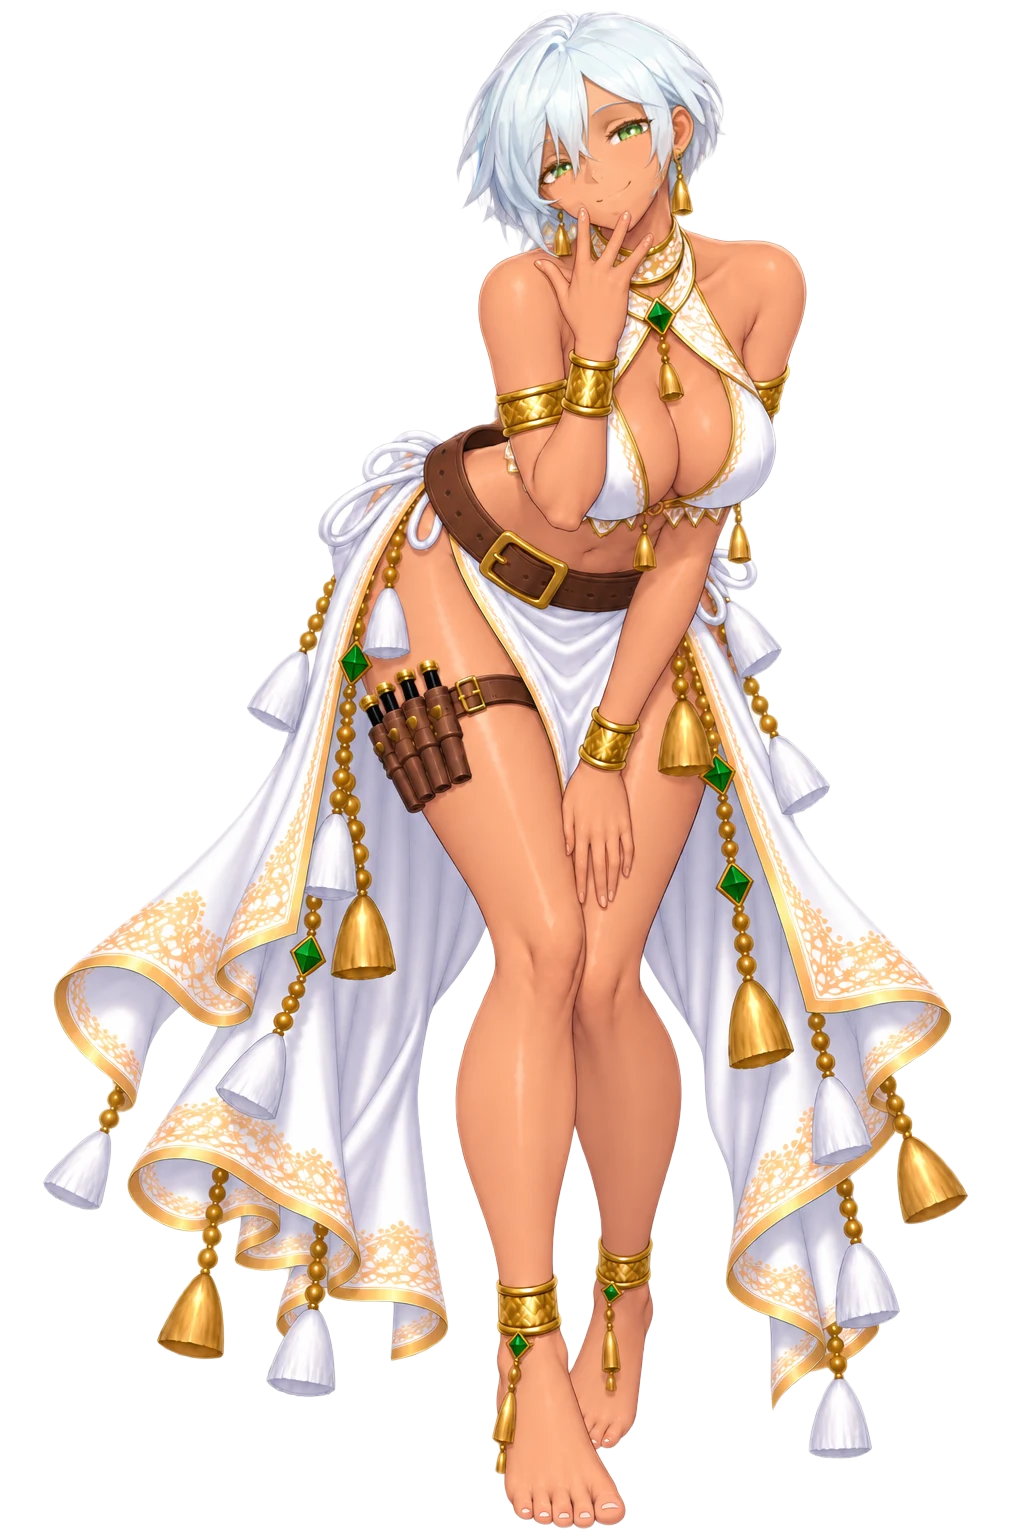
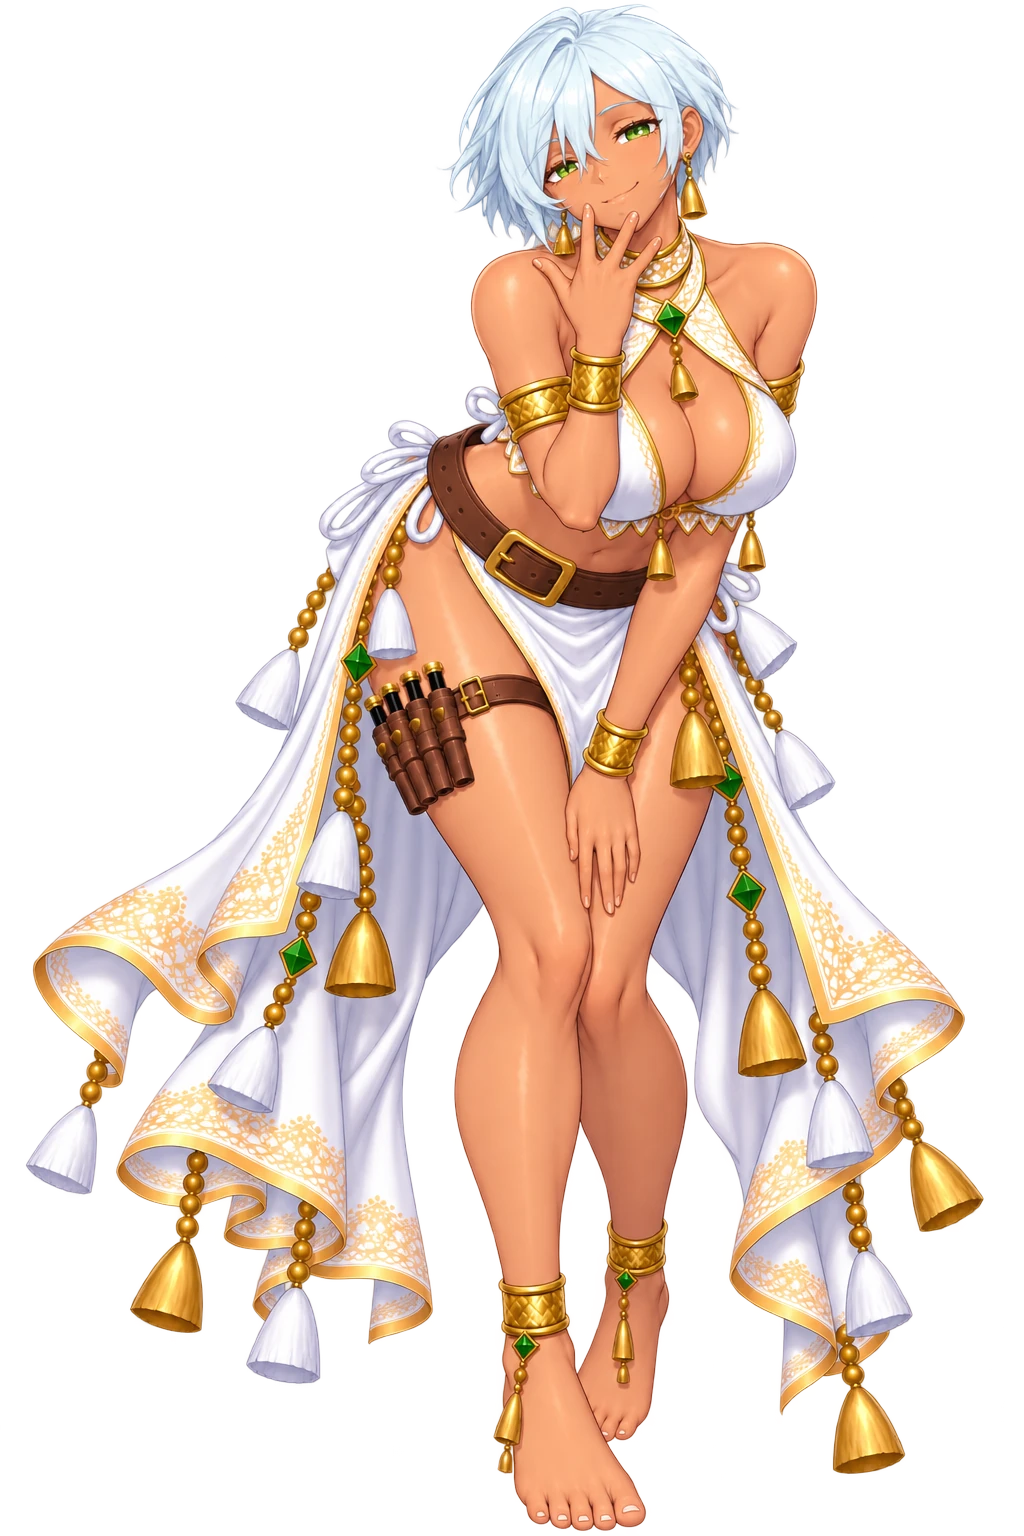
art(索拉娜): smirk 過了 —— 58/62；Ray 的措辭破了重災區
> Ray：「加上提詞穿著民族獸獵服裝的女戰士　不要寫表情　表情嚴格鎖原圖」

三行之後只接「穿著民族獸獵服裝的女戰士」，一個表情字都不寫。
smirk 在那之前連擋五次（自信／挑釁等三種情緒方向詞都試過），這樣一次就過。

⇒ 規律：描述「她穿什麼」會降風險，描述「她在做什麼表情」會升風險 ——
  表情本來就由「照第二張」鎖住，再寫一次只是多給分類器一個把柄。
⚠ laugh 反而最硬（原本估機會最大）：同一輪兩個新 session 都擋，
  其中一次對話標題直接被歸成「人體藝術」。機率不能用直覺估。

四項驗收過（色相 199.0／角α 0／近白 0.00%／與 A 差 33.9），臉部 100% 裁切看過。
還差 4 張：laugh(5次) amaze(4次) tease(5次) 被擋；panic 是 alpha 出不來（另一種病）。

⚠ 程式端要接：speakers.js 共 14 條路徑跳 ?v=（12 張加 v=2、side/smile 改 v=3）。

Changed region(s): [[0.0312, 0.0, 0.9688, 1.0], [0.4375, 0.1875, 0.4688, 0.2188]]

diff --git a/resources/si/_sorana_r3_worklist.md b/resources/si/_sorana_r3_worklist.md
@@ -7,7 +7,7 @@
 
 同名覆蓋，不跳就是玩家繼續吃舊的那一份，**而且畫面上不會有任何錯誤訊息**（§5 的 -650）。
 
-| 要加 `?v=2`（現在沒有版號，11 張） | `battlecry` `shy` `sorry` `surprise` `talk` `think` `tire` `upset` `watch` **`whisper`** **`remind`** |
+| 要加 `?v=2`（現在沒有版號，12 張） | `battlecry` `shy` `sorry` `surprise` `talk` `think` `tire` `upset` `watch` `whisper` `remind` **`smirk`** |
 |---|---|
 | **要改成 `?v=3`（現在是 `?v=2`，2 張）** | `side` `smile` |
 
@@ -39,35 +39,44 @@
 眼睛形狀、金飾與鈴鐺全部對得上基底 A，沒有 -1556 那種吊眼／大圓眼的變形。
 透明像素佔 53~66%，是真 alpha 不是不透明底。
 
-## 四、⚠ 還沒做完的 5 張 —— **四張被擋死、一張 alpha 出不來**
+## 四、⚠ 還沒做完的 4 張
 
-> Ray（2026-09-22）：「**換提詞被擋就換下一張換 session 跑**」——
-> 以下每一張都走完了憲法 §5 那三段（原串重送 → 換串＋換一個短方向詞 → 再換串），
-> **不是沒試，是試到該停了**。
+### ⭐ Ray 給的措辭破了「重災區」：**加服裝、不寫表情**（2026-09-22）
 
-| 鍵 | 今天試了幾次 | 用過的短方向詞 | 結果 |
-|---|---|---|---|
-| `smirk` | **4** | 自信的女戰士／挑釁的女戰士 | 每一次都是內容判定 |
-| `tease` | **4** | 爽朗的女戰士／頑皮的女戰士 | 同上 |
-| `amaze` | **3** | 驚訝的女戰士／震驚的女戰士 | 同上 |
-| `laugh` | **3** | 開朗的女戰士／開懷大笑的女戰士 | 同上 |
-| `panic` | **3** | —（沒有被擋） | **圖每次都出得來，但角落 alpha 246~252 ＝ 它自己畫了背景** |
+> Ray：「laugh 的機會大點，smirk 跟 tease 是重災區，很難跑出來。
+>   **加上提詞穿著民族獸獵服裝的女戰士　不要寫表情　表情嚴格鎖原圖**　開新 session 再跑一輪」
 
-⚠⚠ **`panic` 與另外四張是兩種病，不要混為一談**：
-· 那四張是**內容判定**（連圖都沒有）
-· `panic` 是**它不給透明背景** —— 加了「背景完全透明，四個角落必須是透明的」
-  與「輸出透明背景的 PNG，角色以外全部透明」兩種寫法都一樣。
-  ⇒ 這一張**不要再硬盧提示詞**：它已經是 §憲法 -1516 那條「本機 alpha」的適用對象
-  （`tools/si_matting.py` ＋ `matting_eval.py` 的四項門檻）。⚠ 那條路需要
-  `.venv-matting`（ToonOut／BiRefNet），**這台機器還沒建**（建法在憲法 §5）。
+三行之後只接這一句、**一個表情字都不寫**：
 
-**⇒ 索拉娜 62 張的總進度：44 ＋ 13 ＝ 57 張已重製，還差 5 張。**
+```
+穿著民族獸獵服裝的女戰士
+```
 
-⚠⚠⚠ **這五張要不要繼續，是 Ray 的決定，不是美術的** —— 憲法 §5 的第三段
-（「換掉那一張」）原本是給**補齊情緒範圍**用的；但這五張**已經接進腳本**，
-換一個姿勢等於改掉那幾拍的演出。三條路：
-1. **留著舊圖**（畫面不會壞，只是那五張還是舊的臉模）
-2. **換一個姿勢重畫**（腳本那幾拍的演出會變，取景要重量）
+· **`smirk` 這樣就過了** —— 而它在那之前**連擋五次**（三種情緒方向詞都試過）。
+· ⚠⚠ 所以規律是：**描述「她穿什麼」會降風險，描述「她在做什麼表情」會升風險。**
+  情緒方向詞（自信／挑釁／頑皮…）是 -1503 那條的寫法，**對索拉娜這套服裝行不通**
+  —— 表情本來就由「照第二張」鎖住了，再寫一次只是多給分類器一個把柄。
+· ⚠ **`laugh` 反而是最硬的那一張**（Ray 原本估機會最大）：同一輪換了兩個新 session
+  都擋，其中一次的對話標題直接被歸成「人體藝術」。**機率不能用直覺估。**
+
+| 鍵 | 累計試了幾次 | 最後一次的結果 |
+|---|---|---|
+| `laugh` | **5** | 擋（新措辭 ×2、新 session ×2 都擋） |
+| `amaze` | **4** | 擋（新措辭 ×1） |
+| `tease` | **5** | 擋（新措辭 ×1） |
+| `panic` | **3** | **沒有被擋**，但角落 alpha 246~252 ＝ 它自己畫了背景 |
+
+⚠⚠ **`panic` 與另外三張是兩種病**：那三張是**內容判定**（連圖都沒有）；
+`panic` 是**不給透明背景**（兩種「要透明」的寫法都無效）。
+⇒ `panic` 該走憲法 -1516 的**本機 alpha**（`tools/si_matting.py` ＋ `matting_eval.py`
+的四項門檻），**這台機器還沒建 `.venv-matting`**（建法在憲法 §5）。
+
+**⇒ 索拉娜 62 張的總進度：44 ＋ 14 ＝ 58 張已重製，還差 4 張。**
+
+⚠⚠⚠ **這四張要不要繼續是 Ray 的決定**：它們**已經接進腳本**，
+「換掉那一張」等於改掉那幾拍的演出。三條路：
+1. **留著舊圖**（畫面不會壞，只是那幾張還是舊臉模）
+2. **換一個姿勢重畫**（演出會變，取景要重量）
 3. **`panic` 單獨走本機 alpha**（先建 `.venv-matting`）
 
 ## 五、⚠ 這一輪踩到的坑（下一個人先看這裡）
@@ -75,11 +84,13 @@
 1. **`_sorana_check.py` 的 `BASE` 指到 `resources/_originals/SI_sorana_base/soranagpt_1.png`，
    而 `_originals` 沒進版控** —— 換一台機器就跑不動。
    ⇒ 版控裡的那一份在 **`resources/si/soranagpt/`**（四張 UUID 檔名的 PNG，就是
-   `soranagpt_1~4`，依檔名時間排序）。這一輪是把它們複製回 `_originals/SI_sorana_base/`
-   才跑得起來。**下一台機器照做一次就好。**
+   `soranagpt_1~4`，依檔名時間排序）。複製回去就好。
 2. **`javascript_tool` 有 45 秒上限** —— `__send()` 自己就睡 20 秒，再串一個
    25 秒的等待就會 timeout，**而且送出其實已經成功了**，只是回傳被砍掉。
    差一點誤判成「沒送出去」而重送（那會白燒一次額度）。
    ⇒ `__send` 與 `__grab` 要分成兩次呼叫，中間用 browser_batch 的 `wait` 湊時間。
-3. **換一個新對話之後 `ref` 會失效**，而且**同一個 `ref` 編號會被重新指派給別的元素**
-   —— 每開一個新串就重新 `find` 一次檔案輸入欄，不要沿用上一串的編號。
+3. **換一個新對話之後 `ref` 會失效，而且同一個編號會被重新指派給別的元素**
+   ⇒ 每開一個新串就重新 `find` 一次檔案輸入欄，不要沿用上一串的編號。
+4. ⚠⚠ **判「被擋了沒」一律看 `newImageTurns`（那一回合的讚鈕），不要看頁面文字**
+   —— 拒絕訊息會留在頁尾不消失（憲法 -1503 就寫過）。`_grab.js` 的 `__state()`
+   已經是唯一計算點，照用。
